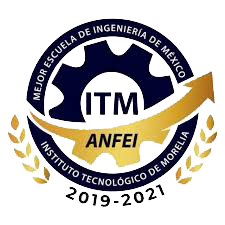
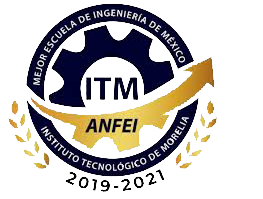
Cambio en index e Imagen anfei.png

diff --git a/index.php b/index.php
@@ -69,7 +69,7 @@
   <header id="header" class="fixed-top">
     <div class="container d-flex align-items-center">
 
-      <img src="assets/img/anfei.png" alt="" width="100" height="100" />
+      <img src="assets/img/anfei.png" alt="" width="105" height="83" />
       <h1 class="logo mr-auto"><a href="index.html">VINCULACION ITM</a></h1>
       <nav class="nav-menu d-none d-lg-block">
         <ul>
